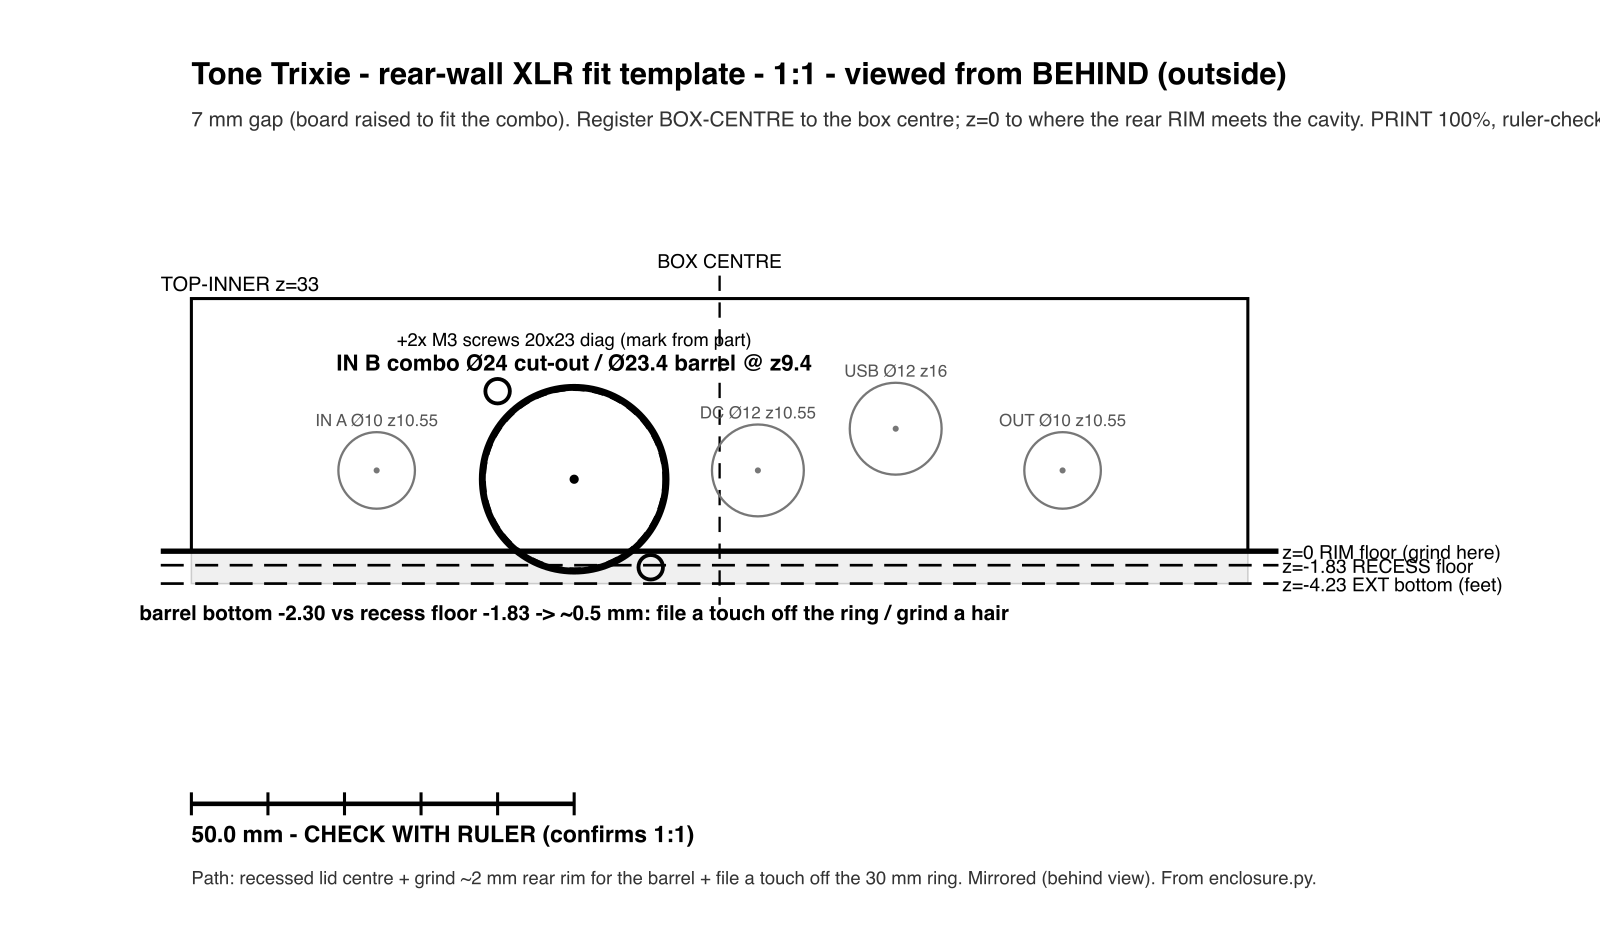
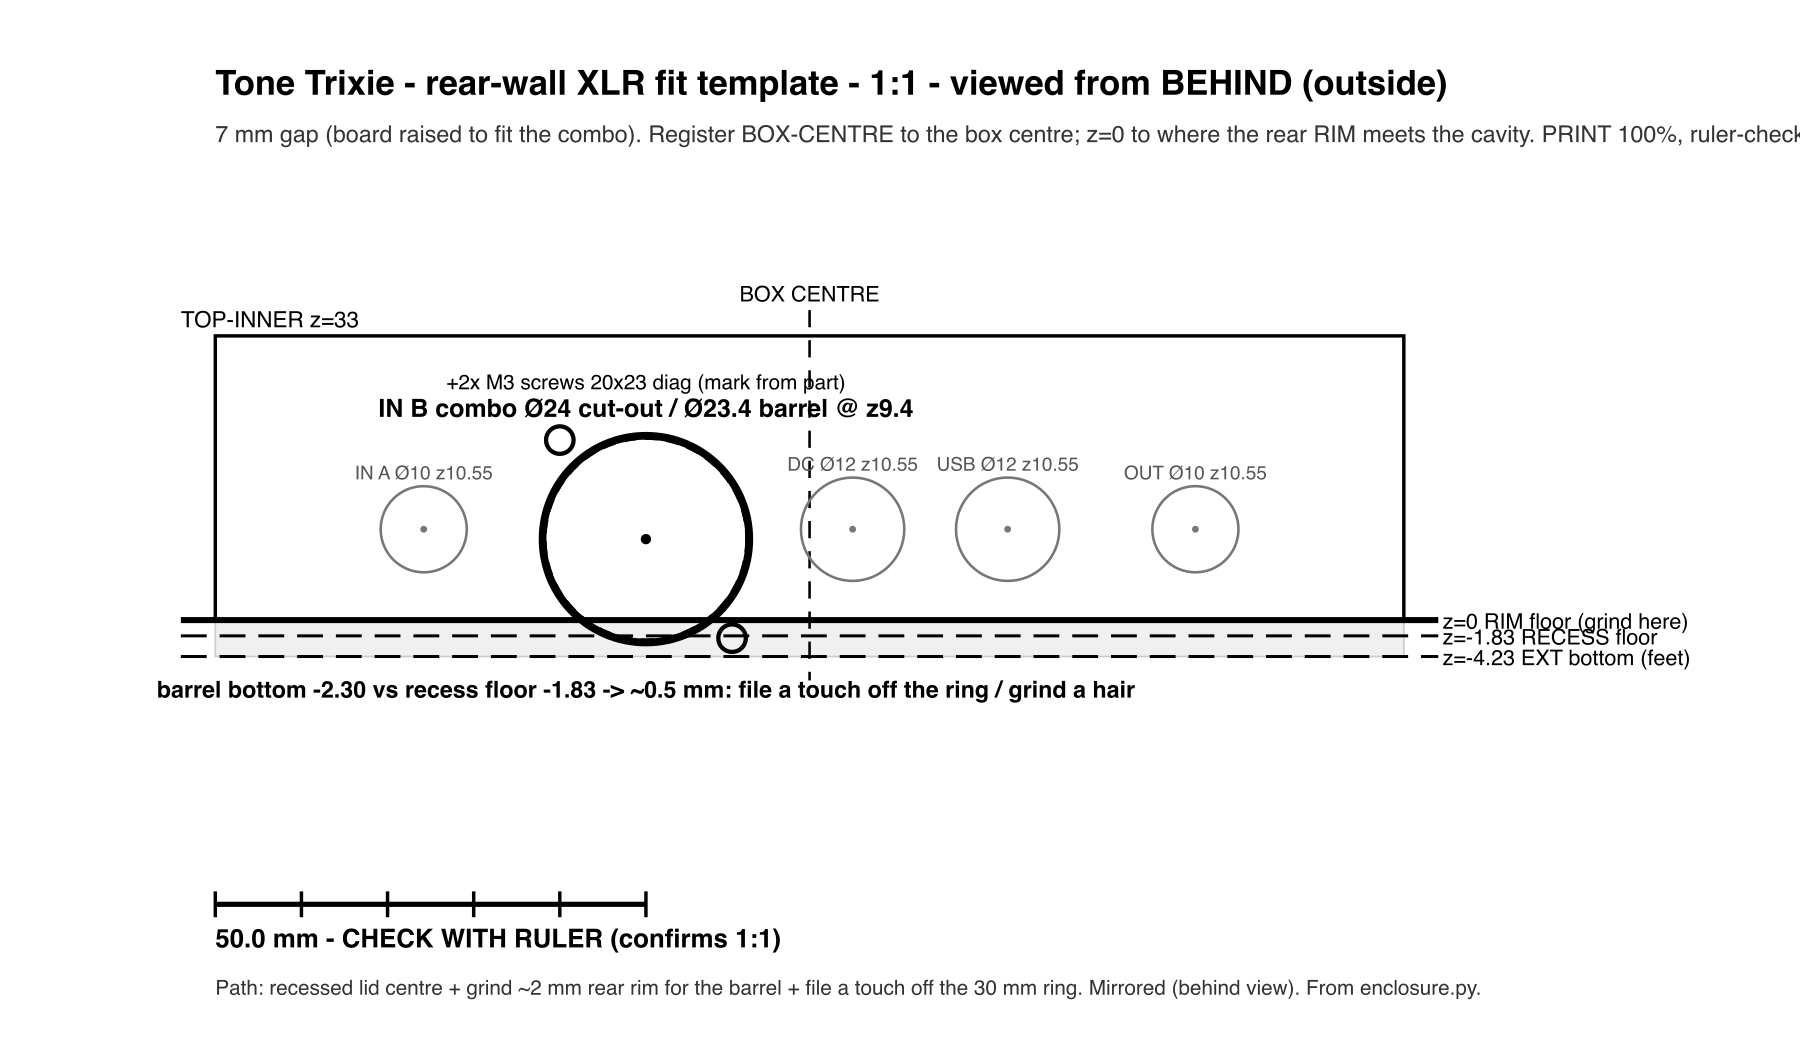
enclosure: level rear USB hole with the DC out (Z 16.0 -> 10.55)
Move the USB-C panel socket centre down from 16.0 to the shared jack
row height (JACK_Z = 10.55), so its bezel lines up with the DC out and
the rest of the OUT/DC/IN A row for a clean rear face.

Lowering the axis gains board clearance (the O11.6 barrel now tops out
~13.45, well below the board) and the 16.9 mm barrel depth runs forward
in the clear x~46 gap between the OUT (x24.2) and DC (x64) barrels, so
the parallel tubes don't foul. USB x46 is also clear of the combo x88.

Regenerated drilling_template, rear_wall_xlr_template and side_elevation
(svg/pdf/preview).

diff --git a/enclosure/enclosure.py b/enclosure/enclosure.py
@@ -103,10 +103,12 @@ JACK_Z   = 10.55        # barrel axis above the base (bottom-mount). K3599 centr
 #   (PAN-USBCC datasheet): drilled hole O12.0, front bezel O13.9 x 1.8 proud, barrel O11.6 x 16.9 deep behind
 #   the wall + locking nut (A/F ~14). Lead: 6x AWG22, USB 2.0 + CC -> DFU + PD both work.
 USB_BEZEL_OD = 13.9     # finished outer bezel (keep-clear vs neighbours); the DRILLED hole is 12.0
-USB_Z    = 16.0         # panel-hole centre above base -- sits just UNDER the board (board top 24.76, bottom
-                        #   23.16; barrel O11.6 tops out ~21.8) so the 16.9 mm barrel runs in the under-board
-                        #   space between the hanging jack barrels, rearward of the Seed (Y<=95). ~1.4 mm under
-                        #   the PCB -- revisit if the board height drops. Bezels clear OUT (22.4) + DC (18.7).
+USB_Z    = JACK_Z       # panel-hole centre above base -- LEVELLED with the DC/OUT/IN A row (JACK_Z=10.55),
+                        #   2026-11-21 (builder's call: USB bezel aligned with DC out for a clean rear row).
+                        #   Was 16.0 (tucked just under the board). At 10.55 the O11.6 barrel tops out ~13.45 --
+                        #   MORE board clearance than before -- and its 16.9 mm depth runs forward in the x~46 gap
+                        #   BETWEEN the OUT (x24.2) and DC (x64) barrels, so the parallel tubes don't foul.
+                        #   ⚠ COMBO (IN B) sits 1.15 mm LOWER at COMBO_Z 9.40; USB x46 is clear of the combo x88.
 # IN B is now the Neutrik NCJ9FI-H COMBO (XLR + switching 1/4in) -- a big Neutrik D / Combo-A cut-out,
 # NOT a small TRS hole (2026-10-30).
 COMBO_D = 24.0          # main connector hole O24 (standard Neutrik D / Combo-A cut-out).
